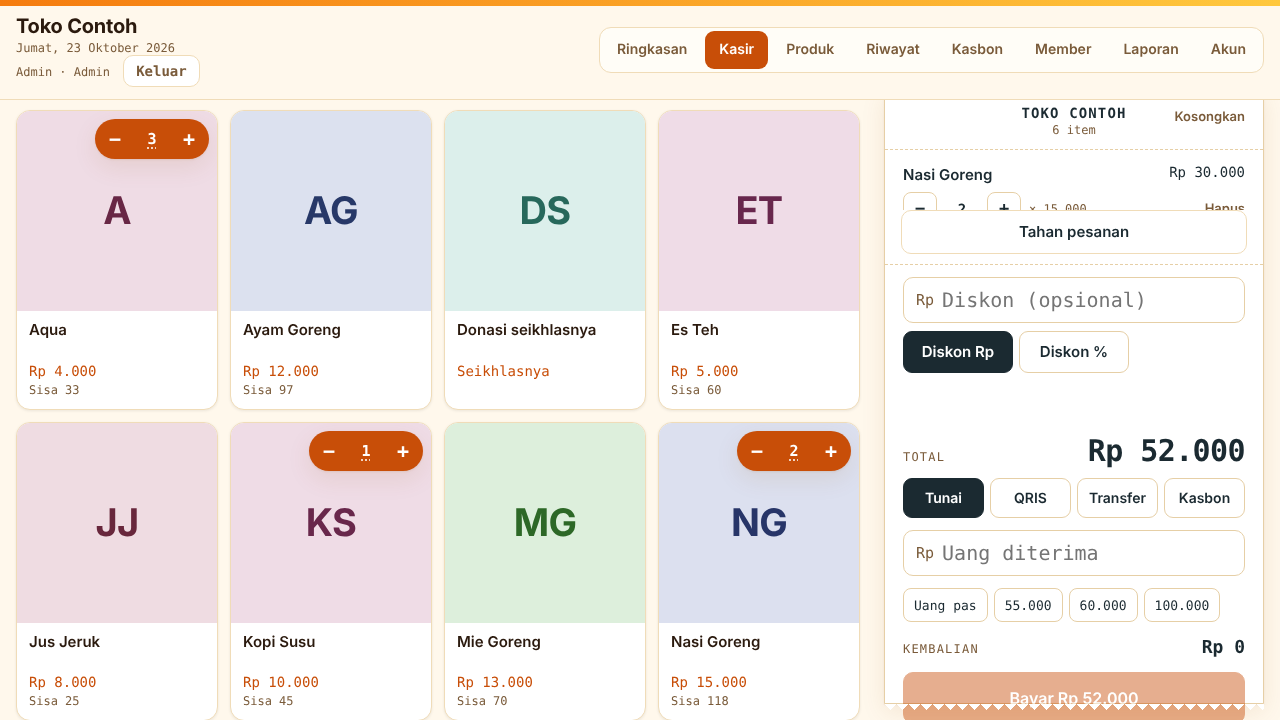
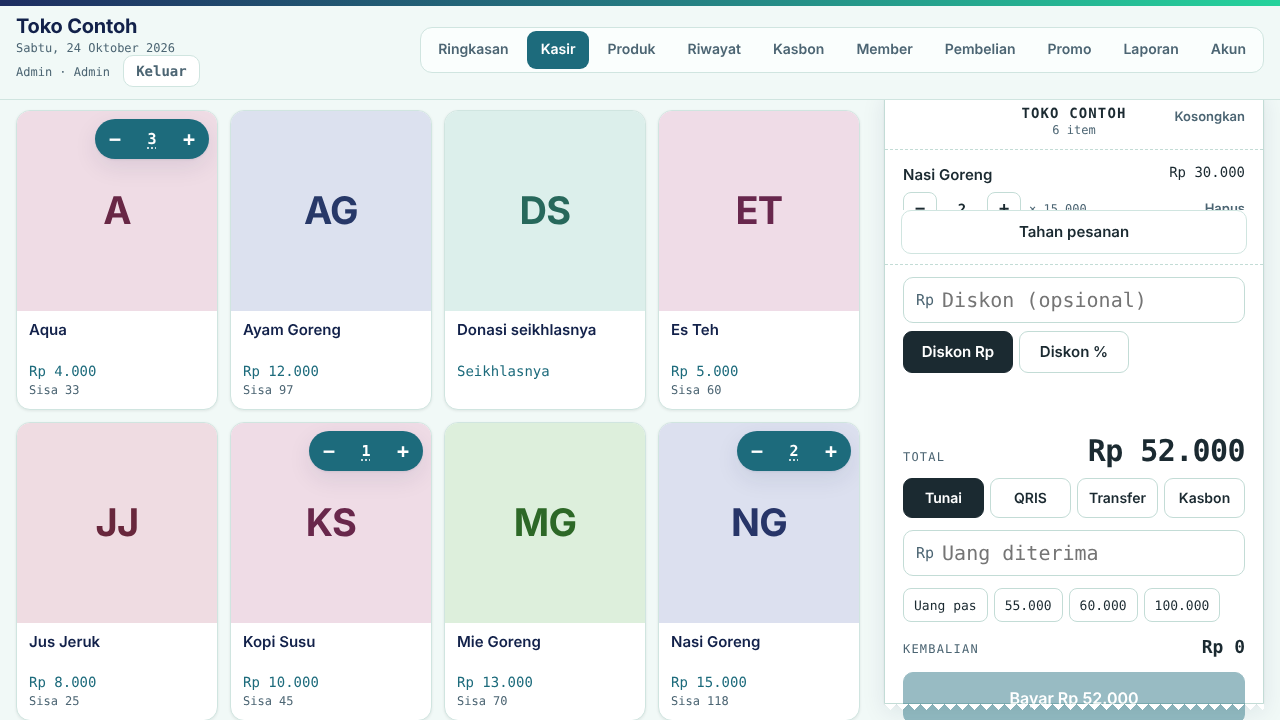
Add files via upload

diff --git a/index.html b/index.html
@@ -3,12 +3,12 @@
 <head>
 <meta charset="utf-8">
 <meta name="viewport" content="width=device-width,initial-scale=1,viewport-fit=cover">
-<meta name="theme-color" content="#C4500A">
+<meta name="theme-color" content="#1D6B7C">
 <link rel="manifest" href="manifest.webmanifest">
 <link rel="icon" href="icon-192.png">
 <link rel="apple-touch-icon" href="icon-192.png">
 <style>:root{color-scheme:light;padding:env(safe-area-inset-top,0px) 0 env(safe-area-inset-bottom,0px)}body{margin:0}img{max-width:100%}[hidden]{display:none!important}</style>
-<title>Kasirku</title>
+<title>Kasva</title>
 <link rel="preconnect" href="https://fonts.googleapis.com">
 <link rel="preconnect" href="https://fonts.gstatic.com" crossorigin>
 <link rel="stylesheet" href="https://fonts.googleapis.com/css2?family=IBM+Plex+Mono:wght@400;500;600&family=Schibsted+Grotesk:wght@400;500;600;700&display=swap">
@@ -50,12 +50,15 @@
 
 /* ===== tema warna: selalu terang, tidak ikut mode gelap HP ===== */
 :root[data-accent="orange"]{--bg:#FFF8EC;--surface:#FFFDF7;--raised:#FFFFFF;--ink:#2B1A0E;--muted:#7A5B3A;--line:#F0DCB8;--accent:#C84E08;--accent-ink:#FFFFFF;--accent-soft:#FFE8BF;--paper-line:#E6CFA6;--shadow:0 1px 2px rgba(150,80,0,.10),0 8px 24px rgba(150,80,0,.10)}
+:root[data-accent="kasva"]{--bg:#F1F9F7;--surface:#FAFEFD;--raised:#FFFFFF;--ink:#12214A;--muted:#4C6573;--line:#D0E5E0;--accent:#1D6B7C;--accent-ink:#FFFFFF;--accent-soft:#D5F4E9;--paper-line:#C3DCD6;--shadow:0 1px 2px rgba(18,33,74,.08),0 8px 24px rgba(18,33,74,.09)}
 :root[data-accent="blue"]{--accent:#1D5FD1;--accent-ink:#FFFFFF;--accent-soft:#DCE8FB}
 :root[data-accent="pink"]{--accent:#B3195A;--accent-ink:#FFFFFF;--accent-soft:#FADCE8}
 .top{border-top:4px solid var(--accent)}
 :root[data-accent="orange"] .top{border-top:0;background-color:var(--bg);background-image:linear-gradient(90deg,#F57C0F,#FFC83D);background-size:100% 6px;background-repeat:no-repeat}
 .tile{border-radius:18px;box-shadow:0 1px 3px rgba(0,0,0,.08)}
 .dbadge{position:absolute;top:8px;left:8px;z-index:2;padding:2px 9px;border-radius:999px;background:var(--accent);color:var(--accent-ink);font:700 11px var(--font-ui);letter-spacing:.02em;pointer-events:none;box-shadow:0 1px 3px rgba(0,0,0,.25)}
+:root[data-accent="kasva"] .top{border-top:0;background-color:var(--bg);background-image:linear-gradient(90deg,#1E2E61,#257A81,#25D39C);background-size:100% 6px;background-repeat:no-repeat}
+:root[data-accent="kasva"] .dbadge{background:#25D39C;color:#06301F}
 :root[data-accent="orange"] .dbadge{background:#FFC83D;color:#3A2200}
 
 *{box-sizing:border-box}
@@ -670,12 +673,12 @@ a.btn{display:inline-flex;align-items:center;justify-content:center;text-decorat
   }
   var canShare=STANDALONE&&detectShare();
   var canShareAny=STANDALONE&&!!navigator.share;
-  var LS='kasirku:v1',APP_VER='59',HB={rpc:false};
+  var LS='kasirku:v1',APP_VER='60',HB={rpc:false};
 
   /* ---------- Tampilan (warna dan mode, per perangkat) ---------- */
   var AC_KEY='kasirku:accent',MD_KEY='kasirku:mode',THEME0=document.documentElement.getAttribute('data-theme');
-  var ACC={orange:['Oranye','#C4500A'],tosca:['Tosca','#0A6B66'],blue:['Biru','#1D5FD1'],pink:['Raspberi','#B3195A']};
-  function accGet(){try{var v=localStorage.getItem(AC_KEY);return ACC[v]?v:'orange';}catch(e){return 'orange';}}
+  var ACC={kasva:['Kasva','#1D6B7C'],orange:['Oranye','#C4500A'],tosca:['Tosca','#0A6B66'],blue:['Biru','#1D5FD1'],pink:['Raspberi','#B3195A']};
+  function accGet(){try{var v=localStorage.getItem(AC_KEY);return ACC[v]?v:'kasva';}catch(e){return 'kasva';}}
   function modeGet(){try{var v=localStorage.getItem(MD_KEY);return (v==='light'||v==='dark')?v:'auto';}catch(e){return 'auto';}}
   function themeApply(){
     var a=accGet(),m=modeGet(),r=document.documentElement;
@@ -3359,7 +3362,7 @@ a.btn{display:inline-flex;align-items:center;justify-content:center;text-decorat
     }
     function chartXml(sp){
       var c=sp.chart,q="'"+sp.name.replace(/'/g,"''")+"'",n=sp.rows.length;
-      var colors=['C4500A','F2A93B','1B7F3B','3B6FD1'];
+      var colors=['1D6B7C','25D39C','1E2E61','3B6FD1'];
       var ser=c.vals.map(function(v,i){
         return '<c:ser><c:idx val="'+i+'"/><c:order val="'+i+'"/><c:tx><c:strRef><c:f>'+q+'!$'+col(v)+'$1</c:f></c:strRef></c:tx><c:spPr><a:solidFill><a:srgbClr val="'+colors[i%4]+'"/></a:solidFill></c:spPr><c:invertIfNegative val="0"/>'
           +'<c:cat><c:strRef><c:f>'+q+'!$A$2:$A$'+n+'</c:f></c:strRef></c:cat><c:val><c:numRef><c:f>'+q+'!$'+col(v)+'$2:$'+col(v)+'$'+n+'</c:f></c:numRef></c:val></c:ser>';
@@ -3399,7 +3402,7 @@ a.btn{display:inline-flex;align-items:center;justify-content:center;text-decorat
       ['_rels/.rels',H+'<Relationships xmlns="http://schemas.openxmlformats.org/package/2006/relationships"><Relationship Id="rId1" Type="http://schemas.openxmlformats.org/officeDocument/2006/relationships/officeDocument" Target="xl/workbook.xml"/></Relationships>'],
       ['xl/workbook.xml',H+'<workbook xmlns="http://schemas.openxmlformats.org/spreadsheetml/2006/main" xmlns:r="'+NS_R+'"><sheets>'+wbSheets+'</sheets></workbook>'],
       ['xl/_rels/workbook.xml.rels',H+'<Relationships xmlns="http://schemas.openxmlformats.org/package/2006/relationships">'+wbRels+'<Relationship Id="rId'+(ns+1)+'" Type="http://schemas.openxmlformats.org/officeDocument/2006/relationships/styles" Target="styles.xml"/></Relationships>'],
-      ['xl/styles.xml',H+'<styleSheet xmlns="http://schemas.openxmlformats.org/spreadsheetml/2006/main"><fonts count="3"><font><sz val="11"/><name val="Calibri"/></font><font><b/><sz val="11"/><name val="Calibri"/></font><font><b/><sz val="14"/><name val="Calibri"/></font></fonts><fills count="3"><fill><patternFill patternType="none"/></fill><fill><patternFill patternType="gray125"/></fill><fill><patternFill patternType="solid"><fgColor rgb="FFFFE3B8"/><bgColor indexed="64"/></patternFill></fill></fills><borders count="2"><border><left/><right/><top/><bottom/><diagonal/></border><border><left/><right/><top/><bottom style="thin"><color rgb="FFC4500A"/></bottom><diagonal/></border></borders><cellStyleXfs count="1"><xf numFmtId="0" fontId="0" fillId="0" borderId="0"/></cellStyleXfs><cellXfs count="7"><xf numFmtId="0" fontId="0" fillId="0" borderId="0" xfId="0"/><xf numFmtId="0" fontId="1" fillId="0" borderId="0" xfId="0" applyFont="1"/><xf numFmtId="3" fontId="0" fillId="0" borderId="0" xfId="0" applyNumberFormat="1"/><xf numFmtId="0" fontId="1" fillId="2" borderId="1" xfId="0" applyFont="1" applyFill="1" applyBorder="1" applyAlignment="1"><alignment horizontal="center" vertical="center" wrapText="1"/></xf><xf numFmtId="0" fontId="2" fillId="0" borderId="0" xfId="0" applyFont="1"/><xf numFmtId="0" fontId="1" fillId="2" borderId="0" xfId="0" applyFont="1" applyFill="1"/><xf numFmtId="3" fontId="1" fillId="0" borderId="0" xfId="0" applyFont="1" applyNumberFormat="1"/></cellXfs></styleSheet>']
+      ['xl/styles.xml',H+'<styleSheet xmlns="http://schemas.openxmlformats.org/spreadsheetml/2006/main"><fonts count="3"><font><sz val="11"/><name val="Calibri"/></font><font><b/><sz val="11"/><name val="Calibri"/></font><font><b/><sz val="14"/><name val="Calibri"/></font></fonts><fills count="3"><fill><patternFill patternType="none"/></fill><fill><patternFill patternType="gray125"/></fill><fill><patternFill patternType="solid"><fgColor rgb="FFD5F4E9"/><bgColor indexed="64"/></patternFill></fill></fills><borders count="2"><border><left/><right/><top/><bottom/><diagonal/></border><border><left/><right/><top/><bottom style="thin"><color rgb="FF1D6B7C"/></bottom><diagonal/></border></borders><cellStyleXfs count="1"><xf numFmtId="0" fontId="0" fillId="0" borderId="0"/></cellStyleXfs><cellXfs count="7"><xf numFmtId="0" fontId="0" fillId="0" borderId="0" xfId="0"/><xf numFmtId="0" fontId="1" fillId="0" borderId="0" xfId="0" applyFont="1"/><xf numFmtId="3" fontId="0" fillId="0" borderId="0" xfId="0" applyNumberFormat="1"/><xf numFmtId="0" fontId="1" fillId="2" borderId="1" xfId="0" applyFont="1" applyFill="1" applyBorder="1" applyAlignment="1"><alignment horizontal="center" vertical="center" wrapText="1"/></xf><xf numFmtId="0" fontId="2" fillId="0" borderId="0" xfId="0" applyFont="1"/><xf numFmtId="0" fontId="1" fillId="2" borderId="0" xfId="0" applyFont="1" applyFill="1"/><xf numFmtId="3" fontId="1" fillId="0" borderId="0" xfId="0" applyFont="1" applyNumberFormat="1"/></cellXfs></styleSheet>']
     );
     var T=[];for(var n=0;n<256;n++){var c=n;for(var k=0;k<8;k++)c=(c&1)?(0xEDB88320^(c>>>1)):(c>>>1);T[n]=c>>>0;}
     function crc(b){var c=0xFFFFFFFF;for(var i=0;i<b.length;i++)c=T[(c^b[i])&255]^(c>>>8);return (c^0xFFFFFFFF)>>>0;}
@@ -3770,7 +3773,7 @@ a.btn{display:inline-flex;align-items:center;justify-content:center;text-decorat
     var msg=S.lmsg?'<p class="hint" style="margin:0 0 12px">'+esc(S.lmsg)+'</p>':'';
     var err='<p class="hint pin-err" id="lgErr" role="alert"></p>';
     if(mode==='loading'){
-      h+='<h2 id="lgTitle">Kasirku</h2><p class="intro">Memuat data…</p>';
+      h+='<h2 id="lgTitle">Kasva</h2><p class="intro">Memuat data…</p>';
     }else if(mode==='setup'){
       h+='<h2 id="lgTitle">Buat akun Admin</h2><p class="intro">Akun pertama ini adalah Admin dengan akses penuh. Akun kasir ditambah sesudahnya di tab Akun.</p>'+msg
         +(legacy?lgField('lgOld','PIN admin lama (atau kode pemulihan)','maxlength="12"'):'')
@@ -4432,7 +4435,7 @@ a.btn{display:inline-flex;align-items:center;justify-content:center;text-decorat
   function bkBuild(){
     var obj={app:'kasirku',ver:1,at:new Date().toISOString(),products:S.products,store:S.store,days:S.days,exp:S.exp,shifts:S.shifts,refunds:S.refunds};
     var d=new Date();
-    return {blob:new Blob([JSON.stringify(obj)],{type:'application/json'}),fn:'kasirku-cadangan-'+dayKey(d)+'-'+pad(d.getHours())+pad(d.getMinutes())+'.json'};
+    return {blob:new Blob([JSON.stringify(obj)],{type:'application/json'}),fn:'kasva-cadangan-'+dayKey(d)+'-'+pad(d.getHours())+pad(d.getMinutes())+'.json'};
   }
   /* true = cadangan berhasil dibagikan; false = dibatalkan atau gagal */
   async function bkShare(){
@@ -4477,14 +4480,14 @@ a.btn{display:inline-flex;align-items:center;justify-content:center;text-decorat
     fr.onerror=function(){toast('File tidak bisa dibaca.');};
     fr.onload=function(){
       var j;
-      try{j=JSON.parse(String(fr.result));}catch(e){toast('Ini bukan file cadangan Kasirku.');return;}
+      try{j=JSON.parse(String(fr.result));}catch(e){toast('Ini bukan file cadangan Kasva.');return;}
       var ok=j&&j.app==='kasirku'&&Array.isArray(j.products)&&j.store&&typeof j.store==='object'&&!Array.isArray(j.store)
         &&['days','exp','shifts','refunds'].every(function(k){return j[k]&&typeof j[k]==='object'&&!Array.isArray(j[k]);})
         &&j.products.every(function(x){return x&&typeof x==='object'&&x.id;})
         &&Object.keys(j.days).every(function(k){return Array.isArray(j.days[k]);})
         &&Object.keys(j.exp).every(function(k){return Array.isArray(j.exp[k]);})
         &&Object.keys(j.refunds).every(function(k){return Array.isArray(j.refunds[k]);});
-      if(!ok){toast('Ini bukan file cadangan Kasirku yang valid.');return;}
+      if(!ok){toast('Ini bukan file cadangan Kasva yang valid.');return;}
       S.bk={products:j.products,store:j.store,days:j.days,exp:j.exp,shifts:j.shifts,refunds:j.refunds};
       var nd=Object.keys(j.days).length,ns=0;Object.keys(j.days).forEach(function(k){ns+=j.days[k].length;});
       var na=Array.isArray(j.store.users)?j.store.users.length:0,at=j.at?new Date(j.at):null;
@@ -6886,7 +6889,7 @@ a.btn{display:inline-flex;align-items:center;justify-content:center;text-decorat
   function vwScanned(code){
     var m=/#kv=([A-Za-z0-9]{8})([cm])/.exec(String(code||''));
     var h=$('#scanHint');
-    if(!m){if(h)h.textContent='Ini bukan QR Kasirku. Coba QR di tab Akun layar kasir.';return;}
+    if(!m){if(h)h.textContent='Ini bukan QR Kasva. Coba QR di tab Akun layar kasir.';return;}
     VW.code=shNorm(m[1]);VW.mode=m[2]==='m'?'mon':'cust';VW.pin='';
     buzz();stopScanner();
     if(VW.mode==='cust'){try{localStorage.setItem(VW_KEY,JSON.stringify({code:VW.code,mode:'cust',pin:'',hide:VW.hide?1:0}));}catch(e){}vwBegin();}
@@ -7138,7 +7141,7 @@ a.btn{display:inline-flex;align-items:center;justify-content:center;text-decorat
     var note=(VW.hide&&Date.now()<VW.hintUntil)?'<div class="vw-note">Tombol disembunyikan. Ketuk nama toko 5 kali, atau tahan 2 detik, untuk memunculkannya lagi.</div>':'';
     if(s&&VW.code)vlName(VW.code,(s.kasir?s.kasir+' · ':'')+(s.shop||''));
     var kas=(s&&s.kasir)?'<div class="vw-kas">Kasir: '+esc(s.kasir)+'</div>':'';
-    var h='<div class="vw-top"><b data-vw="title">'+esc(s?s.shop:'Kasirku')+'</b><div class="vw-right"><div class="vw-st"><span class="vw-dot'+(up?'':' off')+'"></span>'+esc(statTxt)+'</div>'+kas+(ctl?'<div class="vw-ctl">'+ctl+'</div>':'')+'</div></div>'
+    var h='<div class="vw-top"><b data-vw="title">'+esc(s?s.shop:'Kasva')+'</b><div class="vw-right"><div class="vw-st"><span class="vw-dot'+(up?'':' off')+'"></span>'+esc(statTxt)+'</div>'+kas+(ctl?'<div class="vw-ctl">'+ctl+'</div>':'')+'</div></div>'
       +((!VW.hide&&VW.themeOpen)?'<div class="vw-themes">'+vwThemeRow()+'</div>':'')+pk;
     if(st==='deny'){
       h+='<div class="vw-big"><h1>'+(VW.lock?'Pantau dikunci sementara':'PIN pantau salah')+'</h1><p>'+(VW.lock?'Terlalu banyak salah. Coba lagi 5 menit lagi.':'Periksa PIN di tab Akun layar kasir, lalu coba lagi.')+'</p><div class="modal-actions" style="justify-content:center;margin-top:12px"><button class="btn primary" type="button" data-vw="again">Ubah kode</button></div></div>';

diff --git a/sw.js b/sw.js
@@ -1,4 +1,4 @@
-const CACHE = 'kasirku-v59';
+const CACHE = 'kasva-v60';
 const SHELL = ['./', './index.html', './manifest.webmanifest', './icon-192.png', './icon-512.png', './icon-512-maskable.png'];
 
 self.addEventListener('install', (e) => {
